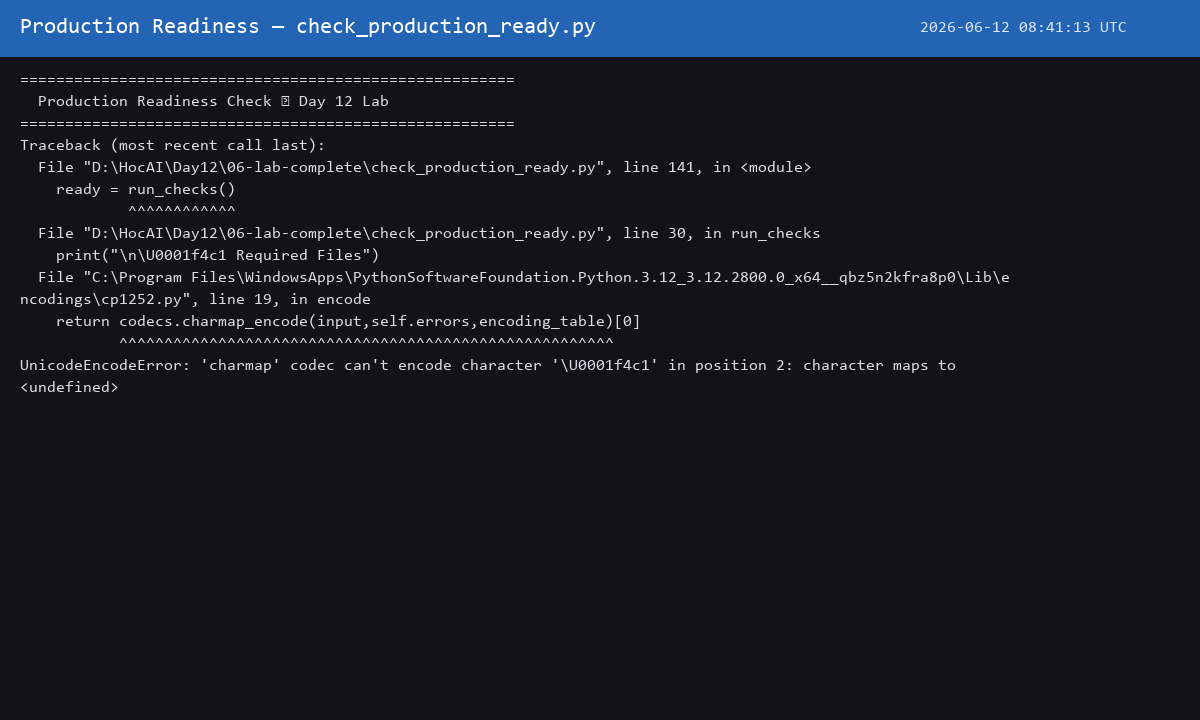
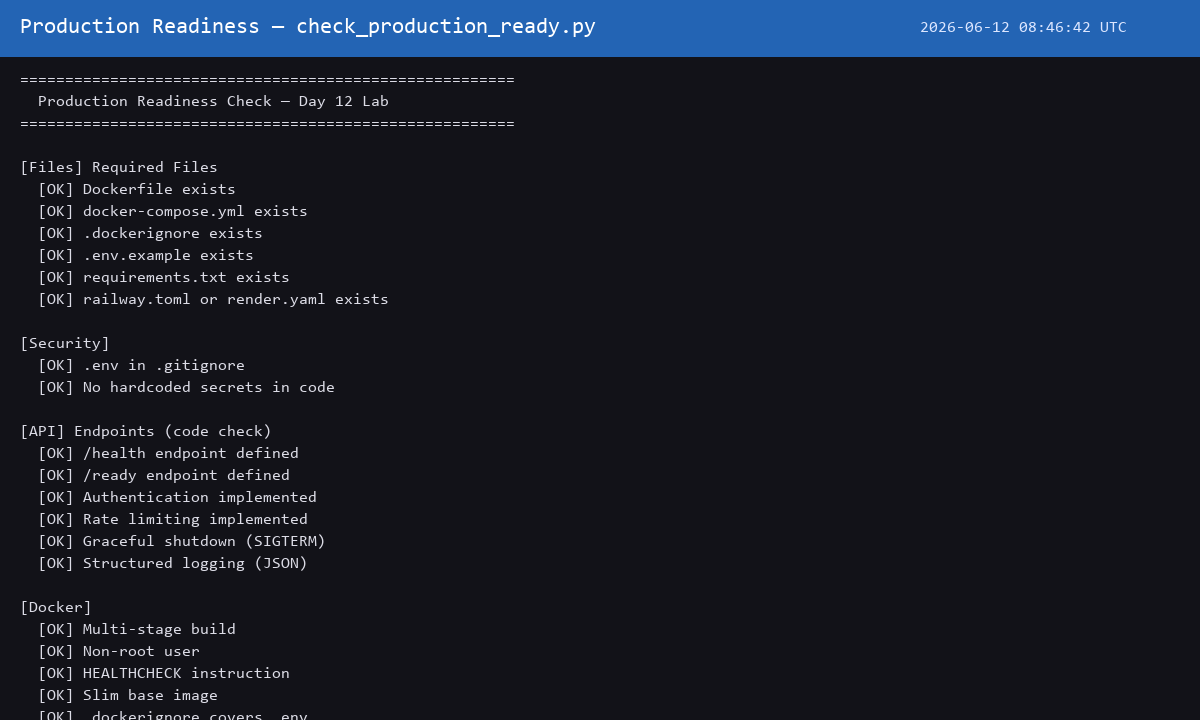
Fix Render blueprint: add required ipAllowList for Redis keyvalue service.

diff --git a/06-lab-complete/check_production_ready.py b/06-lab-complete/check_production_ready.py
@@ -4,16 +4,26 @@ Production Readiness Checker
 Tự động kiểm tra project có đủ điều kiện deploy chưa.
 Chạy: python check_production_ready.py
 
-Output: checklist với ✅ / ❌ cho từng item.
+Output: checklist với [OK] / [FAIL] cho từng item.
 """
 import os
 import sys
-import json
-import subprocess
+
+
+def _configure_stdout() -> None:
+    """Tránh UnicodeEncodeError trên Windows terminal (cp1252)."""
+    if hasattr(sys.stdout, "reconfigure"):
+        try:
+            sys.stdout.reconfigure(encoding="utf-8", errors="replace")
+        except Exception:
+            pass
+
+
+_configure_stdout()
 
 
 def check(name: str, passed: bool, detail: str = "") -> dict:
-    icon = "✅" if passed else "❌"
+    icon = "[OK]" if passed else "[FAIL]"
     print(f"  {icon} {name}" + (f" — {detail}" if detail else ""))
     return {"name": name, "passed": passed}
 
@@ -27,7 +37,7 @@ def run_checks():
     print("=" * 55)
 
     # ── Files ──────────────────���───────────────────
-    print("\n📁 Required Files")
+    print("\n[Files] Required Files")
     results.append(check("Dockerfile exists",
                          os.path.exists(os.path.join(base, "Dockerfile"))))
     results.append(check("docker-compose.yml exists",
@@ -43,7 +53,7 @@ def run_checks():
                          os.path.exists(os.path.join(base, "render.yaml"))))
 
     # ── Security ──────────────────────────────────���
-    print("\n🔒 Security")
+    print("\n[Security]")
 
     # Check .env not tracked
     env_file = os.path.join(base, ".env")
@@ -75,7 +85,7 @@ def run_checks():
                          str(secrets_found) if secrets_found else ""))
 
     # ── API Endpoints ────────────────────────────��─
-    print("\n🌐 API Endpoints (code check)")
+    print("\n[API] Endpoints (code check)")
     main_py = os.path.join(base, "app", "main.py")
     if os.path.exists(main_py):
         content = open(main_py).read()
@@ -95,7 +105,7 @@ def run_checks():
         results.append(check("app/main.py exists", False, "Create app/main.py!"))
 
     # ── Docker ─────────────────────────────────────
-    print("\n🐳 Docker")
+    print("\n[Docker]")
     dockerfile = os.path.join(base, "Dockerfile")
     if os.path.exists(dockerfile):
         content = open(dockerfile).read()
@@ -125,13 +135,13 @@ def run_checks():
     print(f"  Result: {passed}/{total} checks passed ({pct}%)")
 
     if pct == 100:
-        print("  🎉 PRODUCTION READY! Deploy nào!")
+        print("  PRODUCTION READY! Deploy nào!")
     elif pct >= 80:
-        print("  ✅ Almost there! Fix the ❌ items above.")
+        print("  Almost there! Fix the [FAIL] items above.")
     elif pct >= 60:
-        print("  ⚠️  Good progress. Several items need attention.")
+        print("  Good progress. Several items need attention.")
     else:
-        print("  ❌ Not ready. Review the checklist carefully.")
+        print("  Not ready. Review the checklist carefully.")
 
     print("=" * 55 + "\n")
     return pct == 100

diff --git a/06-lab-complete/generate_screenshots.py b/06-lab-complete/generate_screenshots.py
@@ -5,6 +5,7 @@ Run: python generate_screenshots.py
 from __future__ import annotations
 
 import json
+import os
 import subprocess
 import sys
 import textwrap
@@ -33,6 +34,8 @@ def load_public_url() -> str:
 
 
 def run_cmd(cmd: list[str], cwd: Path | None = None) -> str:
+    env = os.environ.copy()
+    env["PYTHONIOENCODING"] = "utf-8"
     result = subprocess.run(
         cmd,
         cwd=cwd or BASE,
@@ -40,6 +43,7 @@ def run_cmd(cmd: list[str], cwd: Path | None = None) -> str:
         text=True,
         encoding="utf-8",
         errors="replace",
+        env=env,
     )
     return (result.stdout + result.stderr).strip() or f"(exit {result.returncode})"
 